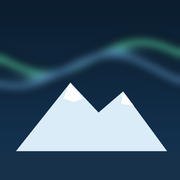
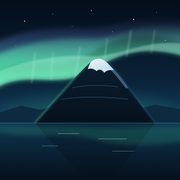
换新的主屏幕图标：极光下的雪山与倒影
Claude-Session: https://claude.ai/code/session_01VjXAqYeWZQ7XEwagCW39xC

diff --git a/index.html b/index.html
@@ -10,7 +10,7 @@
 <meta name="apple-mobile-web-app-status-bar-style" content="black-translucent">
 <meta name="apple-mobile-web-app-title" content="冰岛行程">
 <link rel="manifest" href="manifest.webmanifest">
-<link rel="apple-touch-icon" href="icons/apple-touch-icon.png">
+<link rel="apple-touch-icon" href="icons/apple-touch-icon.png?v=2">
 <link rel="icon" href="icons/icon-192.png">
 <link rel="stylesheet" href="style.css">
 </head>

diff --git a/sw.js b/sw.js
@@ -1,5 +1,5 @@
 // 离线缓存：全部文件预先缓存，之后优先读缓存；有网时后台更新。
-const VERSION = "v1-2026-11-26";
+const VERSION = "v2-2026-11-26";
 const CACHE = "iceland-" + VERSION;
 const FILES = [
   "./", "index.html", "style.css", "app.js", "data.js", "map-shape.js", "manifest.webmanifest",
